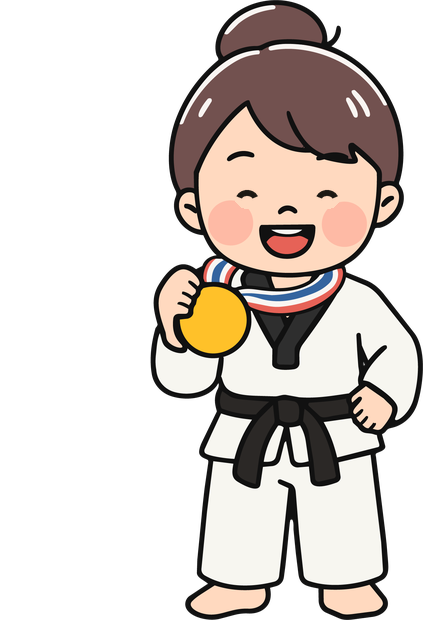
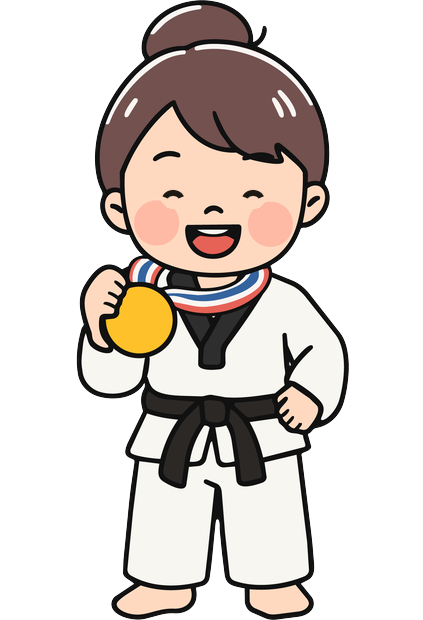
Exam result: center mascot, fixed button order, louder Geslaagd
- Re-center the medal mascot art (kid-medal + blink were flush to the
  right edge of the PNG; re-padded identically so both stay aligned and
  the figure sits centered).
- Keep the result buttons in a fixed order regardless of outcome:
  Opnieuw proberen on top, Terug naar vandaag lowest. Only the accent is
  contextual — pass highlights Terug naar vandaag, fail highlights
  Opnieuw proberen (the CTA glint follows the primary automatically).
- Make the pass kicker "Geslaagd" bigger, bolder and green so the win
  reads loud.

diff --git a/concept-coach.html b/concept-coach.html
@@ -626,6 +626,7 @@
   .ex-result.pass .ex-badge{background:#ECFDF3;color:#12B76A}
   .ex-result.fail .ex-badge{background:var(--soft);color:var(--gray)}
   .ex-rk{margin-top:16px;font-family:var(--cond);text-transform:uppercase;letter-spacing:.16em;font-size:12px;color:var(--gray)}
+  .ex-result.pass .ex-rk{font-size:23px;font-weight:800;letter-spacing:.1em;color:#12B76A;margin-top:18px}
   .ex-rt{font-family:var(--cond);text-transform:uppercase;font-weight:800;font-size:40px;line-height:1;margin:8px 0 0;color:var(--ink)}
   .ex-rs{max-width:300px;margin:14px auto 0;font-size:14.5px;line-height:1.5;color:var(--gray)}
 
@@ -2868,11 +2869,9 @@
          ? 'Sterk gedaan — je haalde de norm ('+s.pass+' goed, max '+s.maxFout+' fout). Klaar voor het echte examen!'
          : 'Je had '+s.fout+' fout; op het examen mag dat er max '+s.maxFout+' zijn. Oefen nog even en probeer opnieuw.')+'</div>'+
     '</div></div>';
-    foot.innerHTML = passed
-      ? '<button class="nextbtn" data-act="exclose">Terug naar vandaag</button>'+
-        '<button class="nextbtn ghost" data-act="exretry" style="margin-top:10px">'+IC.reset+' Opnieuw proberen</button>'
-      : '<button class="nextbtn" data-act="exretry">'+IC.reset+' Opnieuw proberen</button>'+
-        '<button class="nextbtn ghost" data-act="exclose" style="margin-top:10px">Terug naar vandaag</button>';
+    foot.innerHTML =
+      '<button class="nextbtn'+(passed?' ghost':'')+'" data-act="exretry">'+IC.reset+' Opnieuw proberen</button>'+
+      '<button class="nextbtn'+(passed?'':' ghost')+'" data-act="exclose" style="margin-top:10px">Terug naar vandaag</button>';
     if(passed){ confetti(); sfx('exampass'); } else { sfx('examfail'); }
   }
   function examRetry(){ closeExam(); openExam(); }
